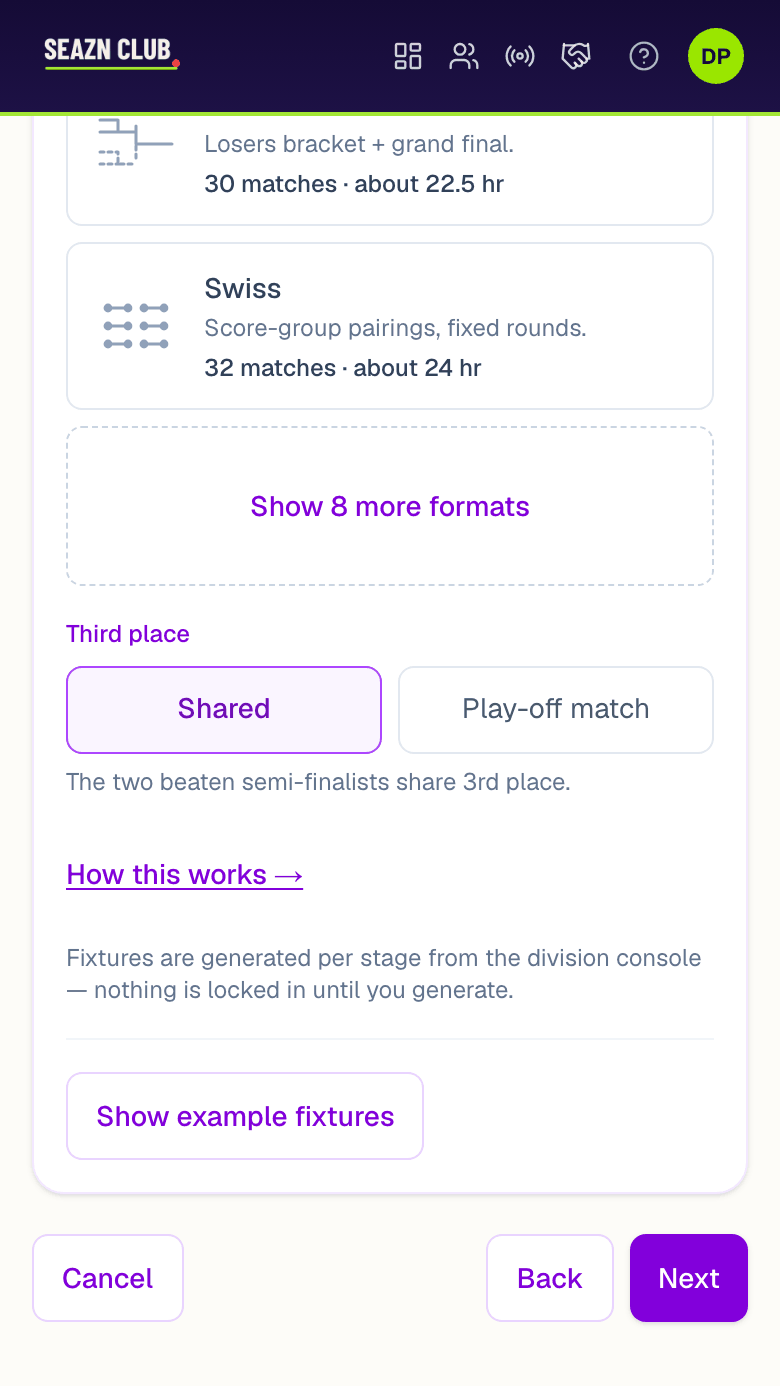
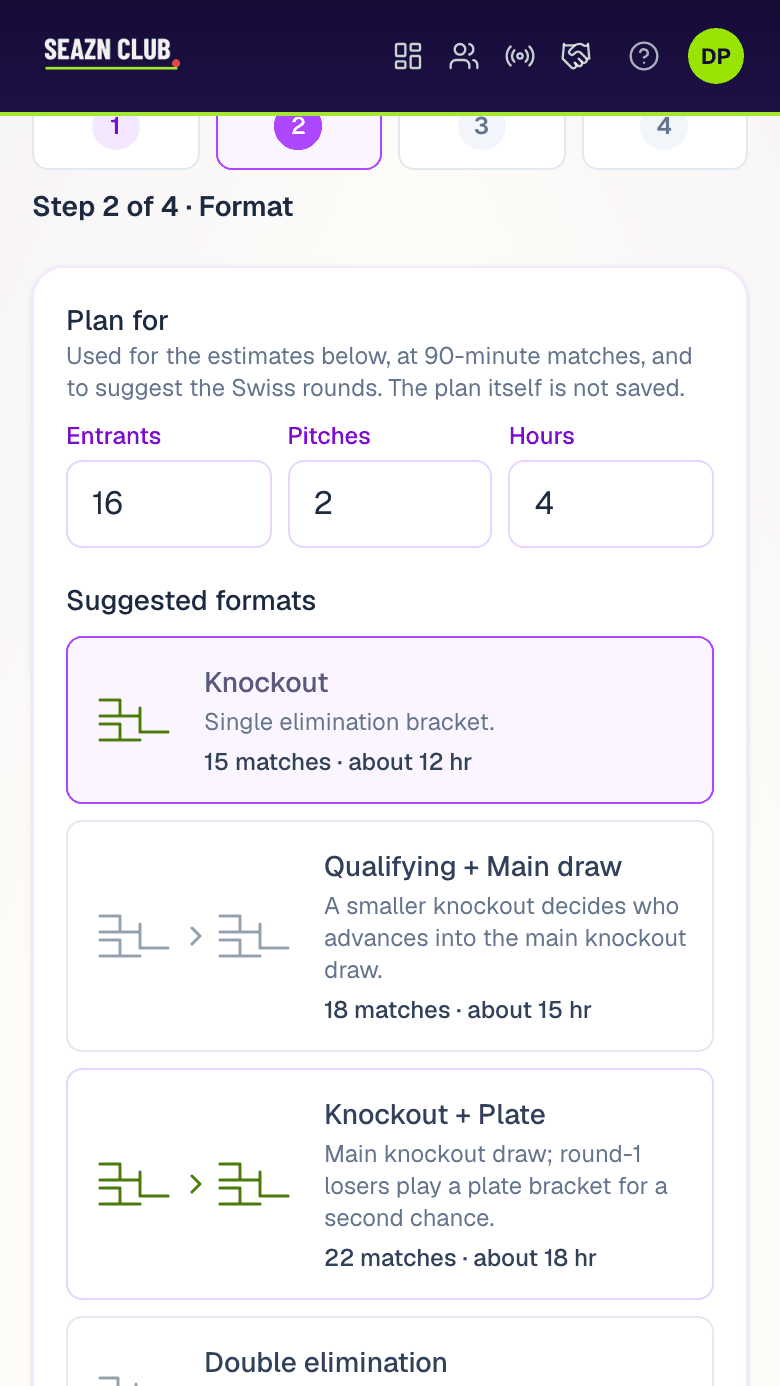
fix(marketing): format demo on phones puts the controls first and stacks each card; retake the wizard picture

diff --git a/apps/web/src/components/marketing/product/product.css b/apps/web/src/components/marketing/product/product.css
@@ -71,6 +71,7 @@
 .mkp-fmt{display:grid;grid-template-columns:minmax(0,1fr) auto;gap:6px 14px;align-items:center;background:#221a3a;color:#fff;border-radius:14px;padding:12px 14px;border:1.5px solid transparent}
 .mkp-fmt b{display:block;font-size:15.5px}.mkp-fmt span{display:block;font-size:13px;color:#b9b0d8}
 .mkp-fmt-n{text-align:right}
+@media (max-width:639px){.mkp-fmt{grid-template-columns:minmax(0,1fr)}.mkp-fmt-n{text-align:left}.mkp-fmt-n b{display:inline;margin-right:8px}.mkp-fmt-n span{display:inline}}
 .mkp-fmt-b{grid-column:1/-1;justify-self:start;font-style:normal;font-size:12px;font-weight:700;border-radius:999px;padding:3px 10px;background:#3b3158;color:#e9e4fb}
 .mkp-fmt-best{border-color:var(--mk-lime)}.mkp-fmt-best .mkp-fmt-b{background:var(--mk-lime);color:var(--mk-night)}
 .mkp-fmt-over{opacity:.72}.mkp-fmt-over .mkp-fmt-b{background:#5a2a12;color:#ffd9b8}

diff --git a/apps/web/src/components/marketing/product/format-demo.tsx b/apps/web/src/components/marketing/product/format-demo.tsx
@@ -28,7 +28,8 @@ export function FormatDemo({ labels: l }: { labels: FormatDemoLabels }) {
 
   return (
     <div className="mkp-stage mkp-s2" data-testid="format-demo">
-      <div className="mkp-tile mkp-t-pad">
+      {/* Not `mkp-t-pad`: that class sends a scoring pad below its screens on a phone. Here the controls come first. */}
+      <div className="mkp-tile">
         <small>
           <b>1</b>
           {l["entrants"]} · {l["courts"]} · {l["hours"]}
